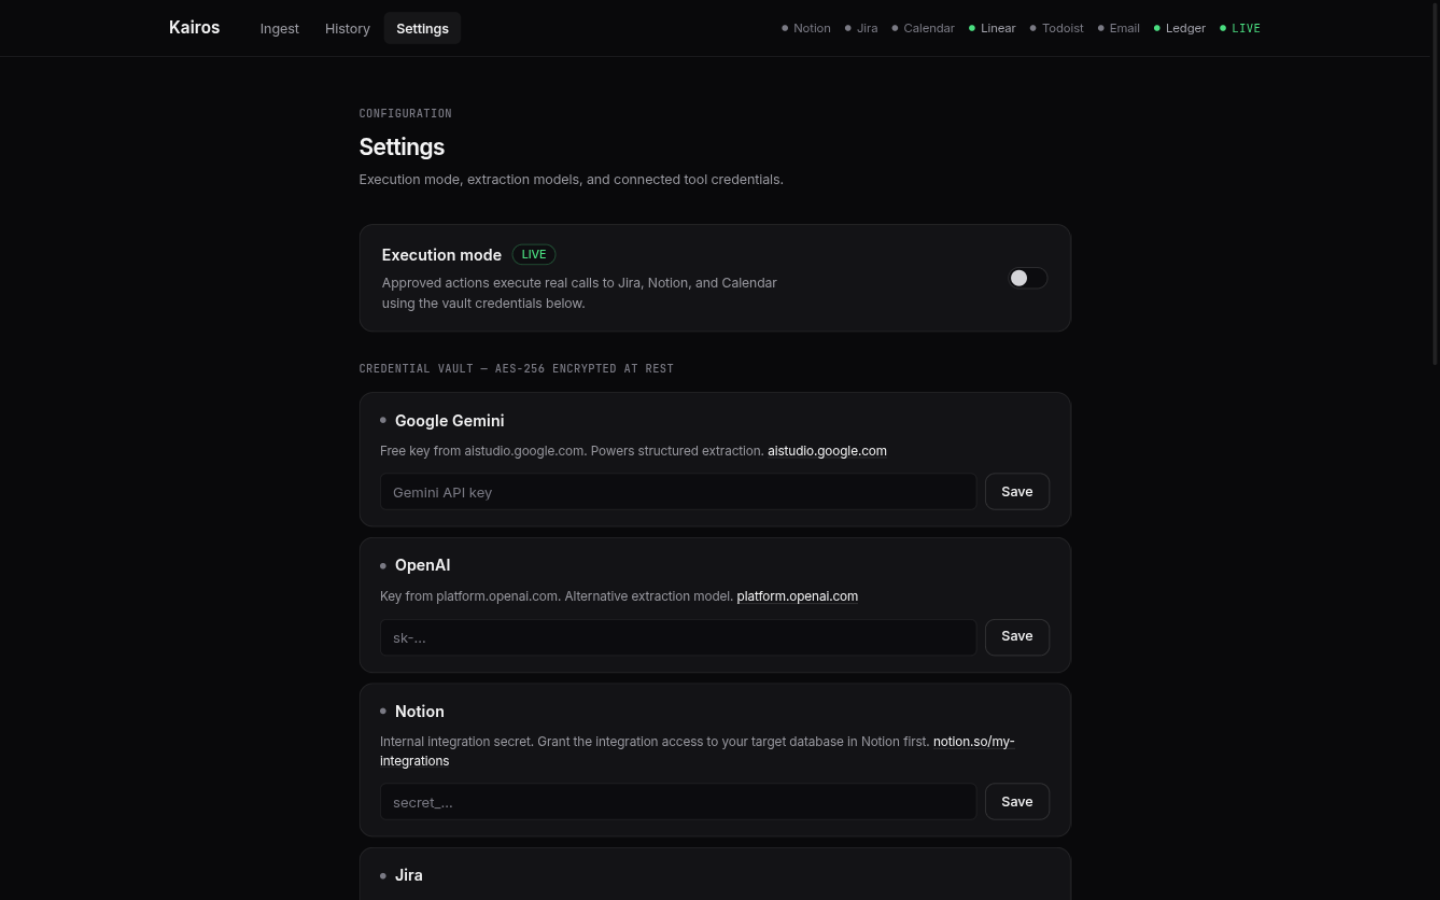
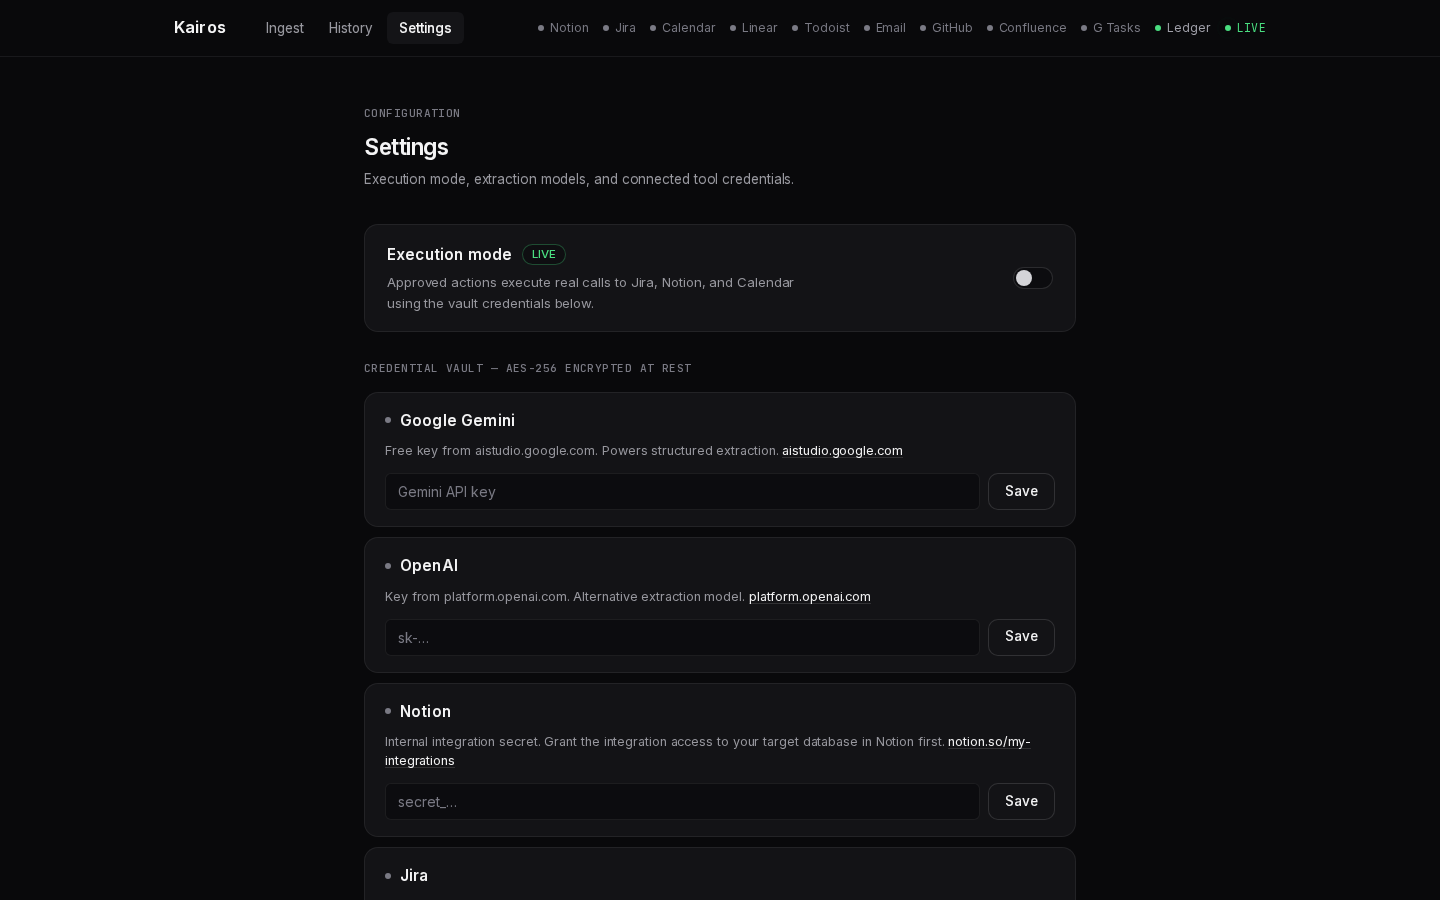
docs(readme,env): the ten-destination surface, live Slack, re-shot settings
- README: destination lists and the how-it-works diagram cover GitHub
  issues, Confluence pages, and Google Tasks; the ingest feature now
  names the live Socket Mode bot; env table documents the new sink
  credentials and Slack tokens; suite table gains the tier-2 sink and
  Slack rows; counts updated to 121 tests and the 23-case eval set.
  Unslop-verified: zero banned phrases, zero structure flags.
- Settings screenshot re-captured against the live stack showing all
  eleven credential cards; per-band hard floors pass (distinct values
  and bright pixels in every band) — the whole-image checks that once
  let blank shots through are gone.
- .env.example: GitHub PAT + target repo, Confluence override token +
  space key, Google Tasks token, Slack listen window.
- Registry descriptor description names all ten destinations.
- Golden set: +3 cases (GitHub issue with bare-imperative assignee,
  Confluence decision log, Google Tasks personal errand) — 23/23.

diff --git a/backend/evals/golden_cases.py b/backend/evals/golden_cases.py
@@ -300,4 +300,41 @@ GOLDEN_CASES: list[dict] = [
             },
         ],
     },
+    {
+        "id": "github-issue",
+        "raw_text": "Lead: Dev, open a GitHub issue for the flaky payment retry test in the repo.",
+        "source_type": "meeting_transcript",
+        "expected_items": [
+            {
+                "suggested_tool": "github",
+                "speaker": "Lead",
+                "suggested_assignee": "Dev",
+                "description_contains": ["flaky", "payment"],
+            },
+        ],
+    },
+    {
+        "id": "confluence-decision-log",
+        "raw_text": "Sarah: We should write the decision log up as a Confluence page after this call.",
+        "source_type": "meeting_transcript",
+        "expected_items": [
+            {
+                "suggested_tool": "confluence_page",
+                "speaker": "Sarah",
+                "description_contains": ["decision log"],
+            },
+        ],
+    },
+    {
+        "id": "google-tasks-personal",
+        "raw_text": "Maya: Add picking up the visa documents to my Google Tasks.",
+        "source_type": "meeting_transcript",
+        "expected_items": [
+            {
+                "suggested_tool": "google_tasks",
+                "speaker": "Maya",
+                "description_contains": ["visa"],
+            },
+        ],
+    },
 ]

diff --git a/README.md b/README.md
@@ -15,7 +15,7 @@ human approves every single item.
 [**Terms**](TERMS.md)
 
 [![License: MIT](https://img.shields.io/badge/License-MIT-18181b?style=flat-square)](LICENSE)
-[![Tests](https://img.shields.io/badge/tests-60%20passing-4ade80?style=flat-square)](#testing)
+[![Tests](https://img.shields.io/badge/tests-121%20passing-4ade80?style=flat-square)](#testing)
 [![Python](https://img.shields.io/badge/python-3.11%2B-3776ab?style=flat-square&logo=python&logoColor=white)](https://www.python.org)
 [![Node](https://img.shields.io/badge/node-18%2B-5fa04e?style=flat-square&logo=nodedotjs&logoColor=white)](https://nodejs.org)
 [![FastAPI](https://img.shields.io/badge/FastAPI-009488?style=flat-square&logo=fastapi&logoColor=white)](https://fastapi.tiangolo.com)
@@ -54,7 +54,7 @@ human approves every single item.
 <tr><td align="center"><sub><b>Execution history</b> — audit trail with tool, latency, and external links</sub></td></tr>
 <tr><td><img src="docs/screenshots/history.png" alt="Kairos execution history — a list of processed batches with status badges, item counts, and links to created objects"></td></tr>
 <tr><td align="center"><sub><b>Settings</b> — execution mode switch and the encrypted credential vault</sub></td></tr>
-<tr><td><img src="docs/screenshots/settings.png" alt="Kairos settings — a sandbox and live toggle switch and credential cards for Notion, Jira, Calendar, Gmail, Linear, Todoist, Gemini, and OpenAI"></td></tr>
+<tr><td><img src="docs/screenshots/settings.png" alt="Kairos settings — a sandbox and live toggle switch and credential cards for Gemini, OpenAI, Notion, Jira, Calendar, Gmail, Linear, Todoist, GitHub, Confluence, and Google Tasks"></td></tr>
 </table>
 
 ## What Kairos does
@@ -65,9 +65,10 @@ schema-validated action items. Each one arrives in a review workbench with
 its verbatim source quote, a suggested destination tool, and a confidence
 score. You edit, approve, or dismiss. Approved items execute for real: a
 Jira or Linear issue filed, a Notion page created, a calendar event
-scheduled, a task in Todoist or the built-in ledger, or an email draft
-waiting for your send. Every decision feeds a routing memory that sharpens
-the next batch's suggestions.
+scheduled, a task in Todoist, Google Tasks, or the built-in ledger, a
+GitHub issue, a Confluence page, or an email draft waiting for your send.
+Every decision feeds a routing memory that sharpens the next batch's
+suggestions.
 
 What it is **not**: a multi-user SaaS. One operator key, one set of
 connected tool accounts, one shared history — see
@@ -93,6 +94,7 @@ you paste text ─ or forward a notetaker export ─ or let Gmail poll in
                 └─ execute: one activity per approved item
                     ├─ SHA-256 idempotency check → no duplicates on retry
                     ├─ Jira / Notion / Calendar / Linear / Todoist
+                    ├─ GitHub issues / Confluence pages / Google Tasks
                     ├─ email drafts (you review before send)
                     └─ execution log with URL, latency, status
 ```
@@ -138,9 +140,10 @@ verbatim source quote behind the proposal, so you verify rather than trust.
 
 **Real side effects**
 
-Issues in Jira or Linear, Notion pages, Calendar events, Todoist tasks,
-email drafts, ledger entries — with SHA-256 idempotency so retries and
-replays never double-create anything.
+Issues in Jira, Linear, or GitHub, Notion and Confluence pages, Calendar
+events, Todoist and Google Tasks entries, email drafts, ledger rows —
+with SHA-256 idempotency so retries and replays never double-create
+anything.
 
 **Durable by construction**
 
@@ -175,10 +178,12 @@ only in memory for approved executions, and never echoed back.
 Paste a Meetily/Granola/Otter export or a Slack workspace export —
 front matter, timestamps, and summary chrome normalized automatically.
 Or connect Gmail and let a 15-minute Temporal Schedule pull new threads.
+Or install the Slack bot and let Socket Mode listen live — threads and
+DMs flow in as batches with no public URL to expose.
 
 **Eval-guarded extraction**
 
-A 20-case golden set gates every change: prompt tweaks and extractor
+A 23-case golden set gates every change: prompt tweaks and extractor
 fixes must hold a 90% floor in CI. The offline extractor passes 100%.
 
 </td>
@@ -189,10 +194,11 @@ fixes must hold a 90% floor in CI. The offline extractor passes 100%.
 Hour-long meetings extract end to end: single-pass below 50k tokens,
 speaker-turn-aware map-reduce above it, cross-chunk dedup.
 
-**Seven destinations**
+**Ten destinations**
 
-Jira, Notion, Calendar, Linear, Todoist, email drafts you review
-before sending, and the built-in Task Ledger.
+Jira, Notion, Calendar, Linear, Todoist, GitHub, Confluence, Google
+Tasks, email drafts you review before sending, and the built-in Task
+Ledger.
 
 </td>
 </tr>
@@ -235,6 +241,10 @@ in the Settings UI is encrypted into PostgreSQL instead.
 | `TRUST_PROXY` | optional | `true` only behind a proxy that overwrites X-Forwarded-For |
 | `GOOGLE_API_KEY` / `OPENAI_API_KEY` | optional | Enables LLM extraction and semantic memory |
 | `NOTION_API_KEY`, `JIRA_*`, `GOOGLE_CALENDAR_ACCESS_TOKEN`, `LINEAR_API_KEY`, `TODOIST_API_KEY` | optional | Live tool execution |
+| `GITHUB_API_TOKEN`, `GITHUB_TARGET_REPO` | optional | GitHub issues (fine-grained PAT with Issues: write) |
+| `ATLASSIAN_API_TOKEN`, `CONFLUENCE_SPACE_KEY` | optional | Confluence pages; the Jira credential already suffices |
+| `GOOGLE_TASKS_ACCESS_TOKEN` | optional | Google Tasks (tasks-scoped OAuth token) |
+| `SLACK_APP_TOKEN`, `SLACK_BOT_TOKEN` | optional | Socket Mode bot; live Slack threads become batches |
 | `GMAIL_CLIENT_ID`, `GMAIL_CLIENT_SECRET` | optional | Gmail poller and email-draft token refresh |
 | `SANDBOX_MODE` | optional | `true` simulates all executions, no side effects |
 | `LANGFUSE_*` | optional | Tracing to a Langfuse host |
@@ -259,7 +269,7 @@ rather than run wide open.
 ./scripts/test.sh
 ```
 
-**102 tests** run against live PostgreSQL and Temporal:
+**121 tests** run against live PostgreSQL and Temporal:
 
 | Suite | Covers |
 |:---|:---|
@@ -273,8 +283,10 @@ rather than run wide open.
 | Security & redaction | Auth, rate limits, CORS, payload caps, XFF spoofing, secret redaction |
 | Resilience | Connector retry transport, batch-deletion guards |
 | Long documents | Speaker-turn chunking, cross-chunk dedup, no-truncation recovery |
-| Extraction evals | 20-case golden set, floor semantics, CI threshold gate |
+| Extraction evals | 23-case golden set, floor semantics, CI threshold gate |
 | Ingestion expansion | Notetaker export normalization, Gmail poll no-op, schedule idempotency |
+| Tier-2 sinks | GitHub / Confluence / Google Tasks connectors, endpoint maps, label normalization |
+| Slack Socket Mode | Listen cycle, thread grouping, speaker attribution, seen-state dedup |
 | Approval integrity | Update validators reject forged decisions before history |
 
 CI runs the same suite plus frontend lint, typecheck, and build on every
